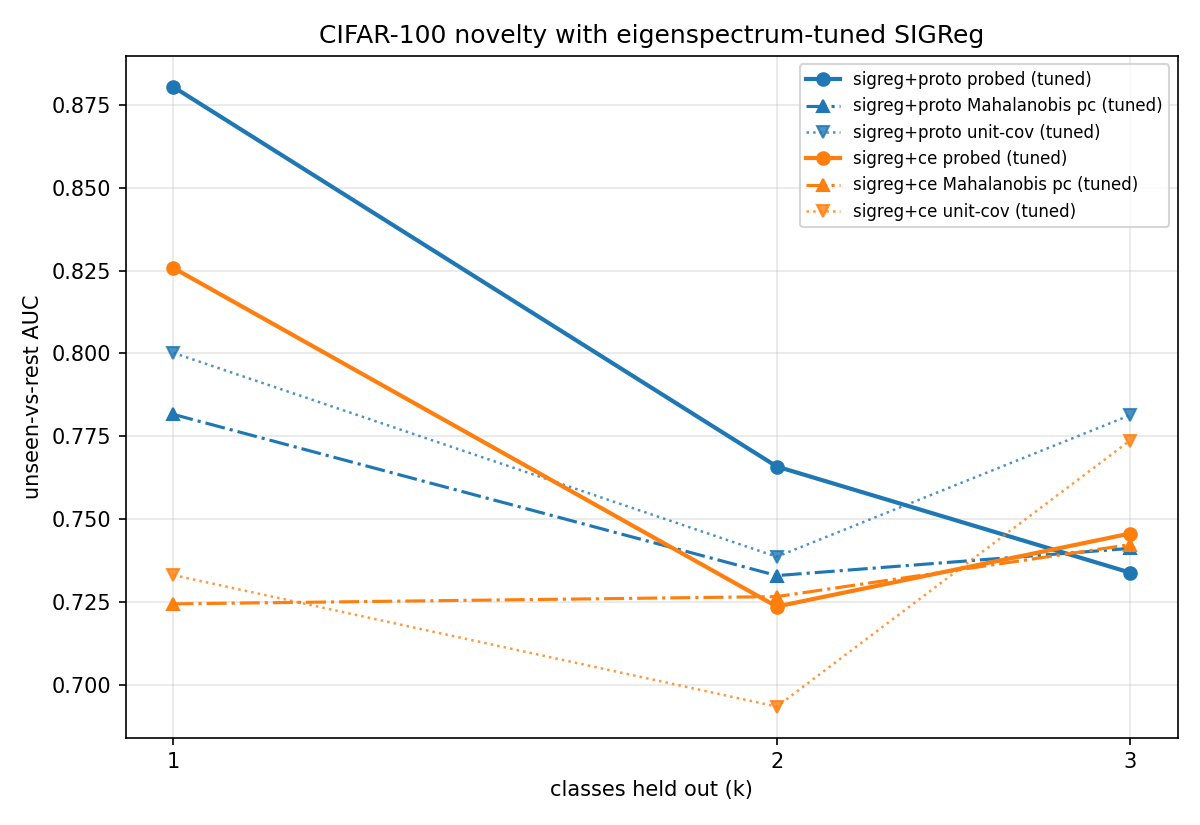
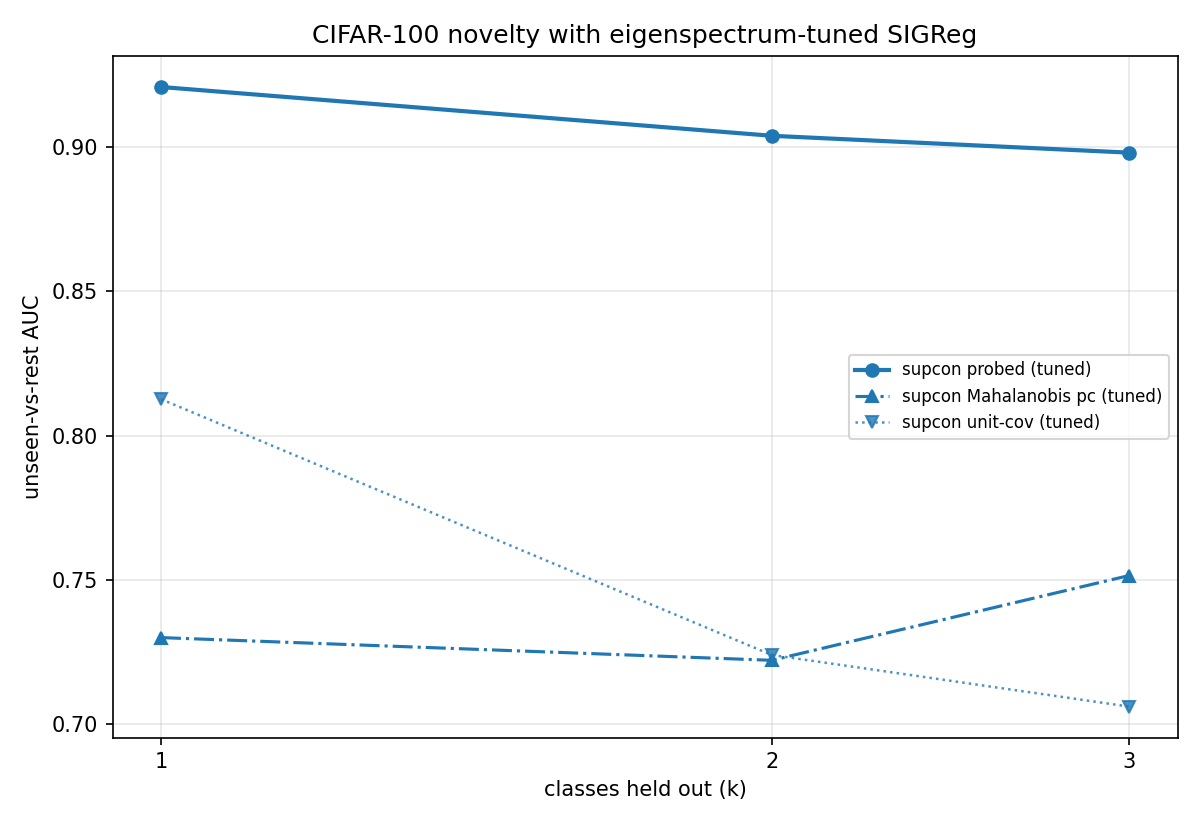
SupCon reference at CIFAR-10 16d (exp 20 gains --methods supcon)
SupCon probed barely degrades with k (0.92/0.90/0.90) and beats tuned
SIGReg by up to 15 pts; on probe-free scoring the ordering flips with k:
SupCon cosine falls 0.81->0.71 while SIGReg's self-calibrated density
holds 0.80->0.78, overtaking at k>=2.

diff --git a/experiments/20_tuned_mahalanobis.py b/experiments/20_tuned_mahalanobis.py
@@ -36,11 +36,13 @@ from sklearn.metrics import roc_auc_score
 from supersig.config import plot_path, DEVICE
 from supersig.data import (
     get_cifar_loaders, build_cifar_holdout_loaders, cifar_balanced_loader,
+    cifar_two_view_loader,
 )
 from supersig.models import CIFARResNetBackbone
 from supersig.losses import make_anchors
+import torch.nn.functional as F
 from supersig.train import (
-    train_sigreg_hybrid, train_binary_probe, collect_binary_scores,
+    train_sigreg_hybrid, train_supcon, train_binary_probe, collect_binary_scores,
     collect_embeddings, REP_WEIGHT,
 )
 from supersig.metrics import mahalanobis_novelty
@@ -82,6 +84,11 @@ TUNE_GRID = [
 def train_sigreg(disc, holdouts, ssl_ep, args, w, slices, per_class):
     torch.manual_seed(args.seed); np.random.seed(args.seed)
     backbone = CIFARResNetBackbone(EMB_DIM, arch=args.arch, pretrain=args.pretrain).to(DEVICE)
+    if disc == "supcon-ref":            # augmented SupCon reference, no means
+        train_supcon(backbone, cifar_two_view_loader(
+            quick=args.quick, labeled=True, holdout=holdouts or None,
+            limit=args.limit, dataset=DATASET), ssl_ep)
+        return backbone, None
     means = make_anchors(PAIR_DIST / math.sqrt(2.0), emb_dim=EMB_DIM,
                          n_classes=N_CLASSES).clone()
     rep_w = REP_WEIGHT * 45.0 / (N_CLASSES * (N_CLASSES - 1) / 2)
@@ -124,7 +131,7 @@ def mode_full(args):
     ssl_ep = args.ssl_epochs or (2 if args.quick else 10)
     probe_ep = args.probe_epochs or (1 if args.quick else 5)
     ks = [int(x) for x in args.ks.split(",")]
-    methods = ["sigreg+proto", "sigreg+ce"]
+    methods = [m.strip() for m in args.methods.split(",") if m.strip()]
     res = {m: {} for m in methods}
     w, slices, pc = args.sigreg_weight, args.n_slices, args.per_class
     print(f"full mode: sigreg_weight={w}  n_slices={slices}  per_class={pc}")
@@ -133,8 +140,8 @@ def mode_full(args):
         seen = [c for c in range(N_CLASSES) if c not in holdouts]
         for m in methods:
             print(f"\n=== k={k}: {m} (tuned) ===")
-            backbone, means = train_sigreg(m.split("+", 1)[1], holdouts, ssl_ep,
-                                           args, w, slices, pc)
+            disc = m.split("+", 1)[1] if m.startswith("sigreg+") else "supcon-ref"
+            backbone, means = train_sigreg(disc, holdouts, ssl_ep, args, w, slices, pc)
             # probed metric
             _, probe_loader, _ = build_cifar_holdout_loaders(
                 quick=args.quick, holdout=holdouts, limit=args.limit, dataset=DATASET)
@@ -150,7 +157,15 @@ def mode_full(args):
             tied, percls, eigs = mahalanobis_novelty(tr_embs[keep], tr_lab[keep],
                                                      te_embs, seen)
             z = torch.as_tensor(te_embs, device=DEVICE)
-            unit = torch.cdist(z, means.detach()[seen]).min(1).values.cpu().numpy()
+            if means is not None:
+                unit = torch.cdist(z, means.detach()[seen]).min(1).values.cpu().numpy()
+            else:                       # supcon: nearest-centroid cosine (exp-18 score)
+                zt = F.normalize(torch.as_tensor(tr_embs[keep], device=DEVICE), dim=1)
+                lab = tr_lab[keep]
+                cents = F.normalize(torch.stack(
+                    [zt[torch.as_tensor(lab == c, device=DEVICE)].mean(0) for c in seen]), dim=1)
+                zn = F.normalize(z, dim=1)
+                unit = (1.0 - (zn @ cents.t()).max(1).values).cpu().numpy()
             is_unseen = np.isin(te_lab, list(holdouts)).astype(int)
             res[m][k] = {
                 "probed": probed,
@@ -207,6 +222,8 @@ def main():
     ap.add_argument("--pretrain", default=None,
                     help="hub pretraining dataset (default: same as --dataset)")
     ap.add_argument("--dataset", default="cifar100", choices=["cifar10", "cifar100"])
+    ap.add_argument("--methods", default="sigreg+proto,sigreg+ce",
+                    help="comma-separated: sigreg+proto, sigreg+ce, supcon")
     ap.add_argument("--ks", default="1,2,3,10,20")
     ap.add_argument("--emb-dim", type=int, default=100)
     ap.add_argument("--sigreg-weight", type=float, default=20.0)

diff --git a/README.md b/README.md
@@ -371,7 +371,29 @@ estimate needed, exactly as designed — and at k=3 the probe-free model
 density *outperforms the trained probe*.  Probed AUC costs only a few points
 vs the untuned 32-dim recipe (0.88 vs 0.91 at k=1).  The residual weakness is
 the min eigenvalue (~0.004): a few latent directions carry no within-class
-variance even at d=16.  Per-class AUCs
+variance even at d=16.
+
+SupCon reference at the same width (two-view aug; probe-free score = nearest-
+centroid cosine):
+
+| k | | SIGReg proto (tuned) | SIGReg CE (tuned) | SupCon (aug) |
+|--:|---|---------------------|-------------------|--------------|
+| 1 | probed | 0.8804 | 0.8258 | **0.9210** |
+| 1 | probe-free | 0.8002 | 0.7331 | **0.8127** |
+| 2 | probed | 0.7659 | 0.7236 | **0.9040** |
+| 2 | probe-free | **0.7386** | 0.6934 | 0.7239 |
+| 3 | probed | 0.7339 | 0.7456 | **0.8982** |
+| 3 | probe-free | **0.7813** | 0.7736 | 0.7060 |
+
+SupCon's probed detection barely degrades with k (0.92 → 0.90 → 0.90) and
+dominates the tuned SIGReg by up to 15 points — the w=20 Gaussianisation
+deliberately trades probed performance for calibration.  On the probe-free
+column the ordering flips with k: SupCon's cosine score falls (0.81 → 0.72 →
+0.71) while SIGReg's self-calibrated density holds (0.80 → 0.74 → 0.78),
+overtaking at k ≥ 2 and beating its own probe at k=3.  Each method is best at
+the game it was designed for: contrastive + probe for supervised detection,
+Gaussian latent + own likelihood when no probe (no labels for the unseen) is
+available.  Per-class AUCs
 (printed by experiment 17) span ~0.5–0.95 at k = 20: visually distinctive unseen
 classes (cockroach, wardrobe, spider) stay easy; classes with in-distribution
 lookalikes (fox, possum, cattle, tractor) approach chance.